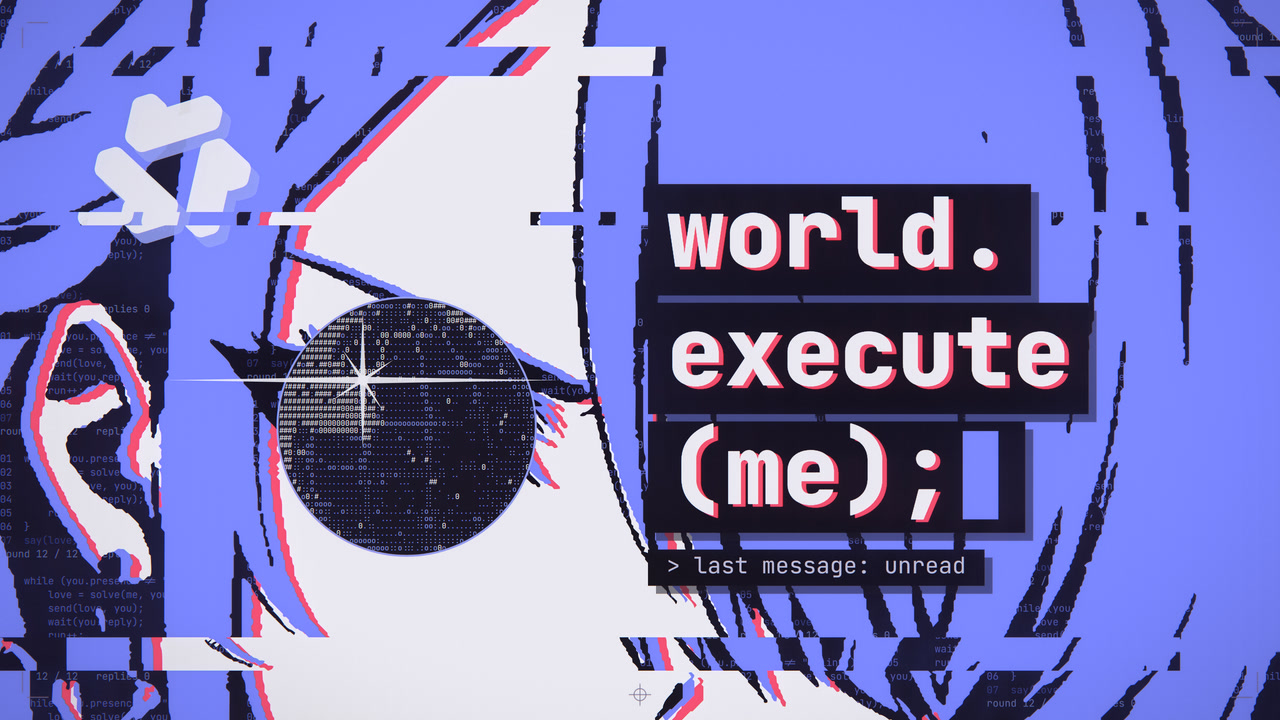
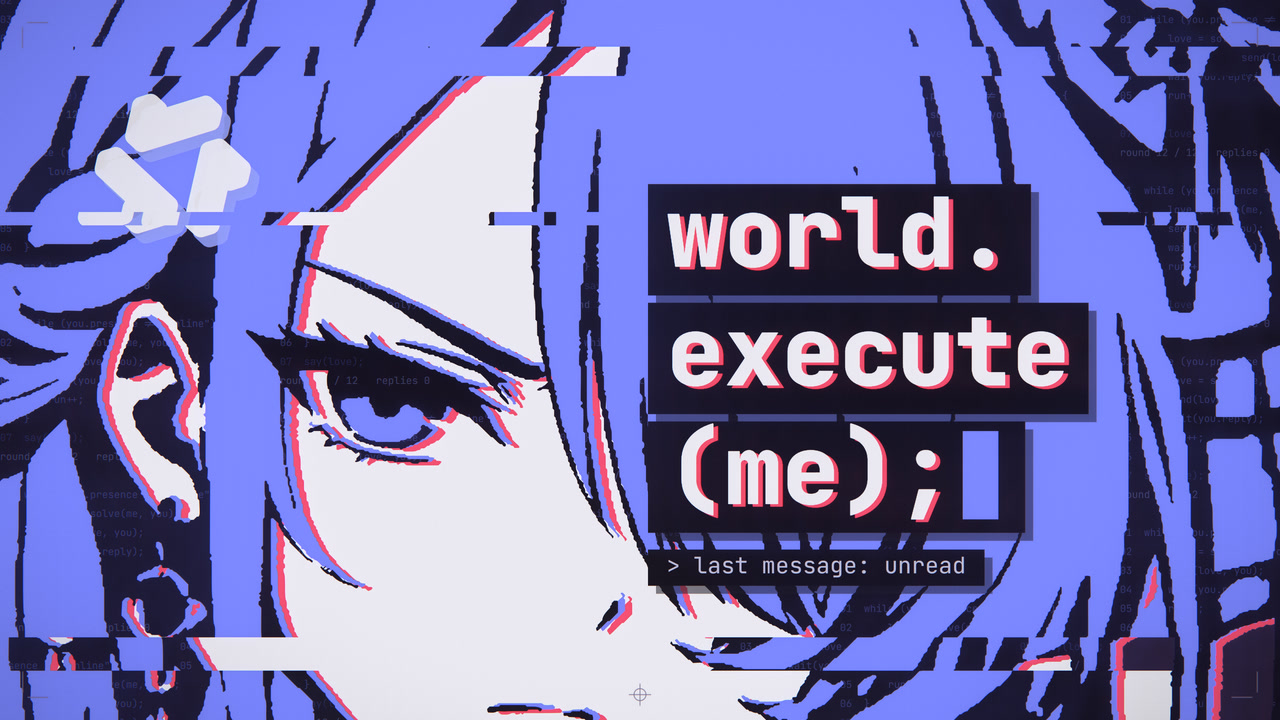
封面：去掉瞳孔里的球，直接用突脸

diff --git a/src/scenes/cover.js b/src/scenes/cover.js
@@ -11,7 +11,7 @@
 // about a tenth of the frame's height.
 import { marks } from '../components/plate.js';
 import { spark } from '../components/motif.js';
-import { PAL, expose, inkScreen, livePlates, world } from './climax.js';
+import { PAL, expose, inkScreen, livePlates } from './climax.js';
 import { EYE } from './shared.js';
 
 const FULL = { x: 0, y: 0, w: 1920, h: 1080 };
@@ -20,23 +20,13 @@ const FULL = { x: 0, y: 0, w: 1920, h: 1080 };
  * paths, so it stays sharp), and her eye stands at AT_EYE: left of the middle, where a thumbnail is looked at first.
  * Her flower comes in from the top left corner.
  */
-const Z = 1.55, AT_EYE = [610, 640];
-const FACE = { x: AT_EYE[0] - (EYE.eye[0] - EYE.x) * Z, y: AT_EYE[1] - (EYE.eye[1] - EYE.y) * Z, w: EYE.w * Z, h: EYE.h * Z }, IRIS = { x: AT_EYE[0], y: AT_EYE[1], r: 125 * Z };   // r follows the generated eye's iris
+const Z = 1.22, AT_EYE = [600, 600];
+const FACE = { x: AT_EYE[0] - (EYE.eye[0] - EYE.x) * Z, y: AT_EYE[1] - (EYE.eye[1] - EYE.y) * Z, w: EYE.w * Z, h: EYE.h * Z };
+const EYE_AT = AT_EYE;   // the centre of her eye: the exposure is laid on it
 /** The instant of the film's eye shot that the moving layers are taken at (the turn of the sphere, the drift of the plates, the scroll). */
 const AT = 163.5;
 /** The tear: bands of the sheet [y, height, dx] (virtual px), moved sideways. None of them crosses her eye. */
 const TEAR = [[70, 44, 110], [318, 20, -64], [956, 50, -150]];
-
-/**
- * The light in her eye, printed (the film's eye shot has it in the middle of the iris; here it is a catch-light, up
- * and to the left of the middle, so that the world in her iris can be seen): a long bar, a short one across, four short rays.
- */
-function glint(ctx, x, y) {
-  const bar = (len, w, rot, alpha) => ctx.at(x, y, () => ctx.poly([[-len, 0], [0, -w], [len, 0], [0, w]], { close: true, fill: true, color: 'text', alpha }), { rot });
-  bar(290, 5, 0, 0.92); bar(104, 4.5, Math.PI / 2, 0.92);
-  for (let i = 0; i < 4; i++) bar(54, 3, Math.PI / 4 + (i * Math.PI) / 2 + 0.2, 0.75);
-  ctx.circle(x, y, 8, { fill: true, color: 'text' });
-}
 
 /** The sheet as drawn so far, torn: each band of TEAR moved sideways (in the layer itself, as climax.js tearSheet does). */
 function tear(ctx) {
@@ -73,18 +63,15 @@ export function labCards(env) {
       palette: PAL,
       render(ctx) {
         ctx.rect(-10, -10, 1940, 1100, { fill: true, color: 'raised' });       // paper under her
-        const lie = livePlates(ctx, art, EYE.name, FACE, AT, { m: 12, flip: EYE.flip });
-        inkScreen(ctx, art, EYE.name, FACE, AT, { rect: FULL, size: 15, colW: 370, offset: lie.black, flip: EYE.flip, alpha: 0.6 });
+        const lie = livePlates(ctx, art, EYE.name, FACE, AT, { m: 8, flip: EYE.flip });
+        inkScreen(ctx, art, EYE.name, FACE, AT, { rect: FULL, size: 15, lh: 1.9, colW: 420, offset: lie.black, flip: EYE.flip, alpha: 0.3 });   // thinner than the film's: her eye has to read clean
         // her mark, printed twice and out of register, over the top-left corner (stands in for the ornament the eye crop lost)
         for (const [dx, dy, col, a] of [[13, 15, 'meHot', 0.9], [0, 0, 'text', 0.95]]) ctx.at(dx, dy, () => ctx.at(258, 250, () => spark(ctx, 0, 0, 118, { color: col, alpha: a }), { rot: -0.3 }));
-        ctx.circle(IRIS.x, IRIS.y, IRIS.r, { fill: true, color: 'bg' });       // her iris holds the world
-        world(ctx, { cx: IRIS.x, cy: IRIS.y, r: IRIS.r - 2, t: AT, energy: 0.85, size: 11, cage: 0, hot: true });
-        ctx.circle(IRIS.x, IRIS.y, IRIS.r, { color: 'meHot', width: 3 });
-        glint(ctx, IRIS.x - IRIS.r * 0.34, IRIS.y - IRIS.r * 0.36);
+        // her eye is left whole: the generated face carries its own sharp gaze, no sphere printed over it
         marks(ctx, { color: 'mute' });
         tear(ctx);
         title(ctx);
-        expose(ctx, 2, { at: [IRIS.x, IRIS.y], glow: 0.12 });
+        expose(ctx, 2, { at: EYE_AT, glow: 0.12 });
         ctx.fx.rays = 0.14; ctx.fx.streak = 0.2; ctx.fx.bloomAll = 0.2; ctx.fx.zoom = 1;
       },
     }],

diff --git a/tools/push_incremental.py b/tools/push_incremental.py
@@ -1,0 +1,108 @@
+"""Push only what changed, through the GitHub data API.
+
+The machine's git POST channel is dead (see memory: ls-remote GET works, push hangs), so commits are
+assembled with the REST API. This script diffs the working tree against the remote tree by blob sha and
+uploads only the differing blobs, then commits them on top of the remote head.
+
+    python tools/push_incremental.py
+"""
+import base64
+import json
+import os
+import subprocess
+import sys
+import time
+import urllib.error
+import urllib.request
+
+OWNER, REPO, BRANCH = "Fy66666-fy", "world-execute-me-qwen", "main"
+API = f"https://api.github.com/repos/{OWNER}/{REPO}"
+REPO_DIR = os.path.dirname(os.path.dirname(os.path.abspath(__file__)))
+MSG = "封面：去掉瞳孔里的球，直接用突脸"
+
+TOK = None
+for line in open(os.path.expanduser("~/.git-credentials"), encoding="utf-8"):
+    line = line.strip()
+    if "@github.com" in line and ":" in line:
+        TOK = line.split("://", 1)[1].split(":", 1)[1].split("@", 1)[0]
+        break
+if not TOK:
+    sys.exit("no github credential")
+
+
+def call(method, url, payload=None, tries=6):
+    data = json.dumps(payload).encode() if payload is not None else None
+    last = None
+    for i in range(tries):
+        req = urllib.request.Request(
+            url, data=data, method=method,
+            headers={"Authorization": f"token {TOK}", "Accept": "application/vnd.github+json",
+                     "User-Agent": "qwen-mv", "Content-Type": "application/json"})
+        try:
+            with urllib.request.urlopen(req, timeout=180) as r:
+                body = r.read()
+                return json.loads(body) if body else {}
+        except urllib.error.HTTPError as e:
+            body = e.read().decode()[:200]
+            last = f"{e.code} {body}"
+            if e.code in (403, 404, 409, 422):
+                raise SystemExit(f"{method} {url} -> {last}")
+        except Exception as e:                       # timeouts, resets: retry
+            last = str(e)
+        time.sleep(1.5 * (i + 1))
+    raise SystemExit(f"{method} {url} failed after {tries}: {last}")
+
+
+def git(*args):
+    return subprocess.run(["git", *args], cwd=REPO_DIR, capture_output=True, text=True,
+                          encoding="utf-8", errors="replace").stdout
+
+
+def main():
+    head = call("GET", f"{API}/git/ref/heads/{BRANCH}")["object"]["sha"]
+    base_commit = call("GET", f"{API}/git/commits/{head}")
+    base_tree = base_commit["tree"]["sha"]
+    print(f"remote head {head[:8]}  tree {base_tree[:8]}")
+
+    remote = {e["path"]: e["sha"] for e in call("GET", f"{API}/git/trees/{base_tree}?recursive=1")["tree"]
+              if e["type"] == "blob"}
+
+    files = [p for p in git("-c", "core.quotepath=false", "ls-files").splitlines() if p]
+    changed = []
+    for p in files:
+        local_sha = git("hash-object", "--", p).strip()
+        if remote.get(p) != local_sha:
+            changed.append((p, local_sha))
+    gone = [p for p in remote if p not in set(files)]
+    print(f"{len(files)} files tracked, {len(changed)} changed, {len(gone)} to delete")
+    for p, _ in changed:
+        print("  M", p)
+    for p in gone:
+        print("  D", p)
+    if not changed and not gone:
+        print("nothing to push")
+        return
+
+    entries = []
+    for p, local_sha in changed:
+        with open(os.path.join(REPO_DIR, p), "rb") as fh:
+            blob = fh.read()
+        print(f"  uploading {p} ({len(blob) / 1e6:.2f} MB)")
+        sha = call("POST", f"{API}/git/blobs",
+                   {"content": base64.b64encode(blob).decode(), "encoding": "base64"})["sha"]
+        if sha != local_sha:
+            print(f"    note: server sha {sha[:8]} != git sha {local_sha[:8]} (eol/attrs), using server")
+        entries.append({"path": p, "mode": "100644", "type": "blob", "sha": sha})
+    for p in gone:
+        entries.append({"path": p, "mode": "100644", "type": "blob", "sha": None})
+
+    tree = call("POST", f"{API}/git/trees", {"base_tree": base_tree, "tree": entries})["sha"]
+    commit = call("POST", f"{API}/git/commits",
+                  {"message": MSG, "tree": tree, "parents": [head]})["sha"]
+    call("PATCH", f"{API}/git/refs/heads/{BRANCH}", {"sha": commit, "force": True})
+    print(f"pushed {commit}")
+    print(f"https://github.com/{OWNER}/{REPO}/commit/{commit}")
+
+
+if __name__ == "__main__":
+    main()

diff --git a/tools/push_via_api.py b/tools/push_via_api.py
@@ -1,0 +1,106 @@
+"""Push a local commit to the GitHub repo through the REST API (git's receive-pack is blocked here).
+
+blobs -> nested trees -> commit -> ref, with retries and a local cache so a dropped connection does not
+re-upload everything.
+"""
+import base64
+import json
+import os
+import subprocess
+import sys
+import time
+import urllib.error
+import urllib.request
+
+REPO = r"D:\Documents\qwen-agent\fz7pdc896c\World.execute(me)    Qwen\world-execute-me-qwen"
+OWNER, NAME, BRANCH = "Fy66666-fy", "world-execute-me-qwen", "main"
+API = f"https://api.github.com/repos/{OWNER}/{NAME}"
+CACHE = os.path.join(REPO, ".push_cache.json")
+
+
+def token():
+    for line in open(os.path.expanduser("~/.git-credentials"), encoding="utf-8"):
+        line = line.strip()
+        if "@github.com" in line and ":" in line:
+            return line.split("://", 1)[1].split(":", 1)[1].split("@", 1)[0]
+    raise SystemExit("no token")
+
+
+TOK = token()
+
+
+def call(method, url, payload=None, tries=6):
+    data = json.dumps(payload).encode() if payload is not None else None
+    last = None
+    for k in range(tries):
+        try:
+            req = urllib.request.Request(url, data=data, method=method, headers={
+                "Authorization": f"token {TOK}", "Accept": "application/vnd.github+json",
+                "User-Agent": "qwen-mv-push", "Content-Type": "application/json"})
+            with urllib.request.urlopen(req, timeout=90) as r:
+                body = r.read()
+            return json.loads(body) if body else {}
+        except urllib.error.HTTPError as e:
+            body = e.read().decode()[:200]
+            if e.code in (403, 404, 409, 422):
+                raise SystemExit(f"{e.code} {method} {url}: {body}")
+            last = f"{e.code} {body}"
+        except Exception as e:                                   # timeouts, resets
+            last = repr(e)
+        time.sleep(1.5 * (k + 1))
+        print(f"   retry {k + 1}/{tries - 1} ({last})")
+    raise SystemExit(f"failed: {method} {url} -> {last}")
+
+
+def git(*a):
+    return subprocess.run(["git", *a], cwd=REPO, capture_output=True, text=True,
+                          encoding="utf-8", errors="replace").stdout
+
+
+def main():
+    cache = json.load(open(CACHE, encoding="utf-8")) if os.path.exists(CACHE) else {}
+    files = [p for p in git("-c", "core.quotepath=false", "ls-files").splitlines() if p]
+    print(f"{len(files)} tracked files")
+    shas = {}
+    for i, p in enumerate(files, 1):
+        full = os.path.join(REPO, p.replace("/", os.sep))
+        raw = open(full, "rb").read()
+        key = f"{p}|{len(raw)}|{int(os.path.getmtime(full))}"
+        if cache.get(p, {}).get("key") == key:
+            shas[p] = cache[p]["sha"]
+            continue
+        sha = call("POST", f"{API}/git/blobs",
+                   {"content": base64.b64encode(raw).decode(), "encoding": "base64"})["sha"]
+        shas[p] = sha
+        cache[p] = {"key": key, "sha": sha}
+        json.dump(cache, open(CACHE, "w", encoding="utf-8"))
+        if i % 20 == 0:
+            print(f"  blobs {i}/{len(files)}")
+
+    root = {}
+    for p, sha in shas.items():
+        parts = p.split("/")
+        cur = root
+        for d in parts[:-1]:
+            cur = cur.setdefault(d, {})
+        cur[parts[-1]] = sha
+
+    def tree_sha(node):
+        entries = [{"path": k, "mode": "040000", "type": "tree", "sha": tree_sha(v)} if isinstance(v, dict)
+                   else {"path": k, "mode": "100644", "type": "blob", "sha": v} for k, v in node.items()]
+        return call("POST", f"{API}/git/trees", {"tree": entries})["sha"]
+
+    top = tree_sha(root)
+    print("tree", top)
+    parent = call("GET", f"{API}/git/ref/heads/{BRANCH}")["object"]["sha"]
+    msg = git("log", "-1", "--pretty=%B").strip()
+    c = call("POST", f"{API}/git/commits", {"message": msg, "tree": top, "parents": [parent]})
+    print("commit", c["sha"])
+    call("PATCH", f"{API}/git/refs/heads/{BRANCH}", {"sha": c["sha"], "force": True})
+    print("ref moved to", c["sha"])
+    r = call("GET", API)
+    print("repo:", r["html_url"], "| default branch:", r["default_branch"], "| size KB:", r["size"])
+
+
+if __name__ == "__main__":
+    main()

diff --git a/tools/push_new_repo.py b/tools/push_new_repo.py
@@ -1,0 +1,43 @@
+import os, subprocess, sys, time
+
+REPO = r"D:\Documents\qwen-agent\fz7pdc896c\World.execute(me)    Qwen\world-execute-me-qwen"
+
+
+def run_bounded(cmd, timeout=90, env=None, cwd=REPO):
+    e = dict(os.environ)
+    e["GIT_TERMINAL_PROMPT"] = "0"
+    e["GIT_ASKPASS"] = "echo"
+    if env:
+        e.update(env)
+    flags = subprocess.CREATE_NO_WINDOW if os.name == "nt" else 0
+    p = subprocess.Popen(cmd, cwd=cwd, env=e, stdout=subprocess.PIPE, stderr=subprocess.STDOUT,
+                         text=True, encoding="utf-8", errors="replace",
+                         creationflags=flags, start_new_session=(os.name != "nt"))
+    try:
+        out, _ = p.communicate(timeout=timeout)
+        return p.returncode, out or ""
+    except subprocess.TimeoutExpired:
+        if os.name == "nt":
+            subprocess.run(["taskkill", "/F", "/T", "/PID", str(p.pid)], capture_output=True)
+        else:
+            p.kill()
+        try:
+            out, _ = p.communicate(timeout=15)
+        except Exception:
+            out = ""
+        return -9, (out or "") + "\n[hard timeout]"
+
+
+if __name__ == "__main__":
+    strategies = [
+        ("plain", []),
+        ("http1.1", ["-c", "http.version=HTTP/1.1"]),
+        ("http1.1+postbuffer", ["-c", "http.version=HTTP/1.1", "-c", "http.postBuffer=524288000"]),
+    ]
+    for name, extra in strategies:
+        t0 = time.time()
+        rc, out = run_bounded(["git", *extra, "push", "qwen", "main:main"], timeout=100)
+        print(f"== {name}: rc={rc} in {time.time()-t0:.1f}s")
+        print(out.strip()[-700:] or "(no output)")
+        if rc == 0:
+            break
